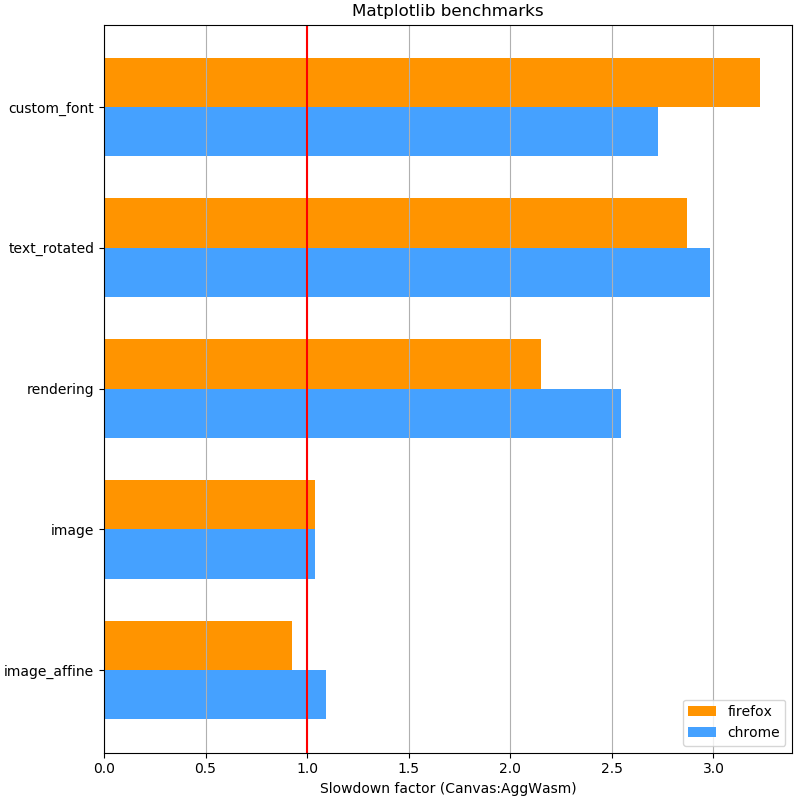
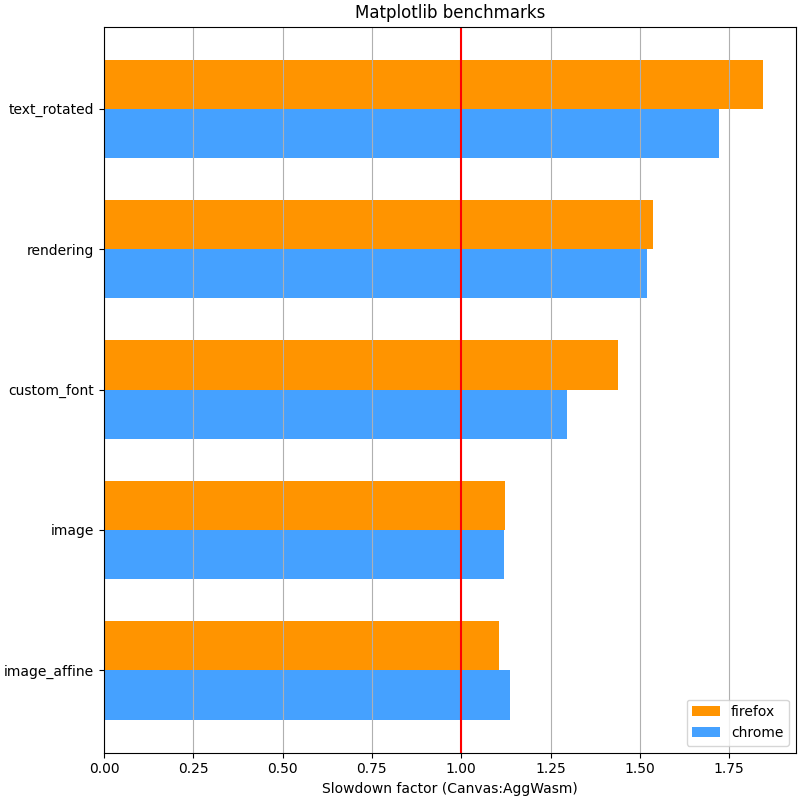
add re-calculated benchmarks

diff --git a/content/posts/canvas-renderer-matplotlib-in-pyodide.md b/content/posts/canvas-renderer-matplotlib-in-pyodide.md
@@ -176,7 +176,7 @@ Using the Canvas API to draw the plots live introduces a performance penalty. We
 
 ![metrics](/posts/2/metrics.png)
 
-In essence, the new renderer is about 2 to 2.5x slower but that’s the price one pays for reducing the size.
+In essence, the new renderer is about 1.25 to 1.5x slower but that’s the price one pays for reducing the size.
 
 To overcome the above slowdown due to the rendering loop in Python, one solution is to rewrite this time-critical piece in JavaScript. This can be possible using the Function construct in JavaScript. The Function construct would essentially allow us to create JavaScript functions inside a Python module capable of accepting and working with pythonic arguments.
 
